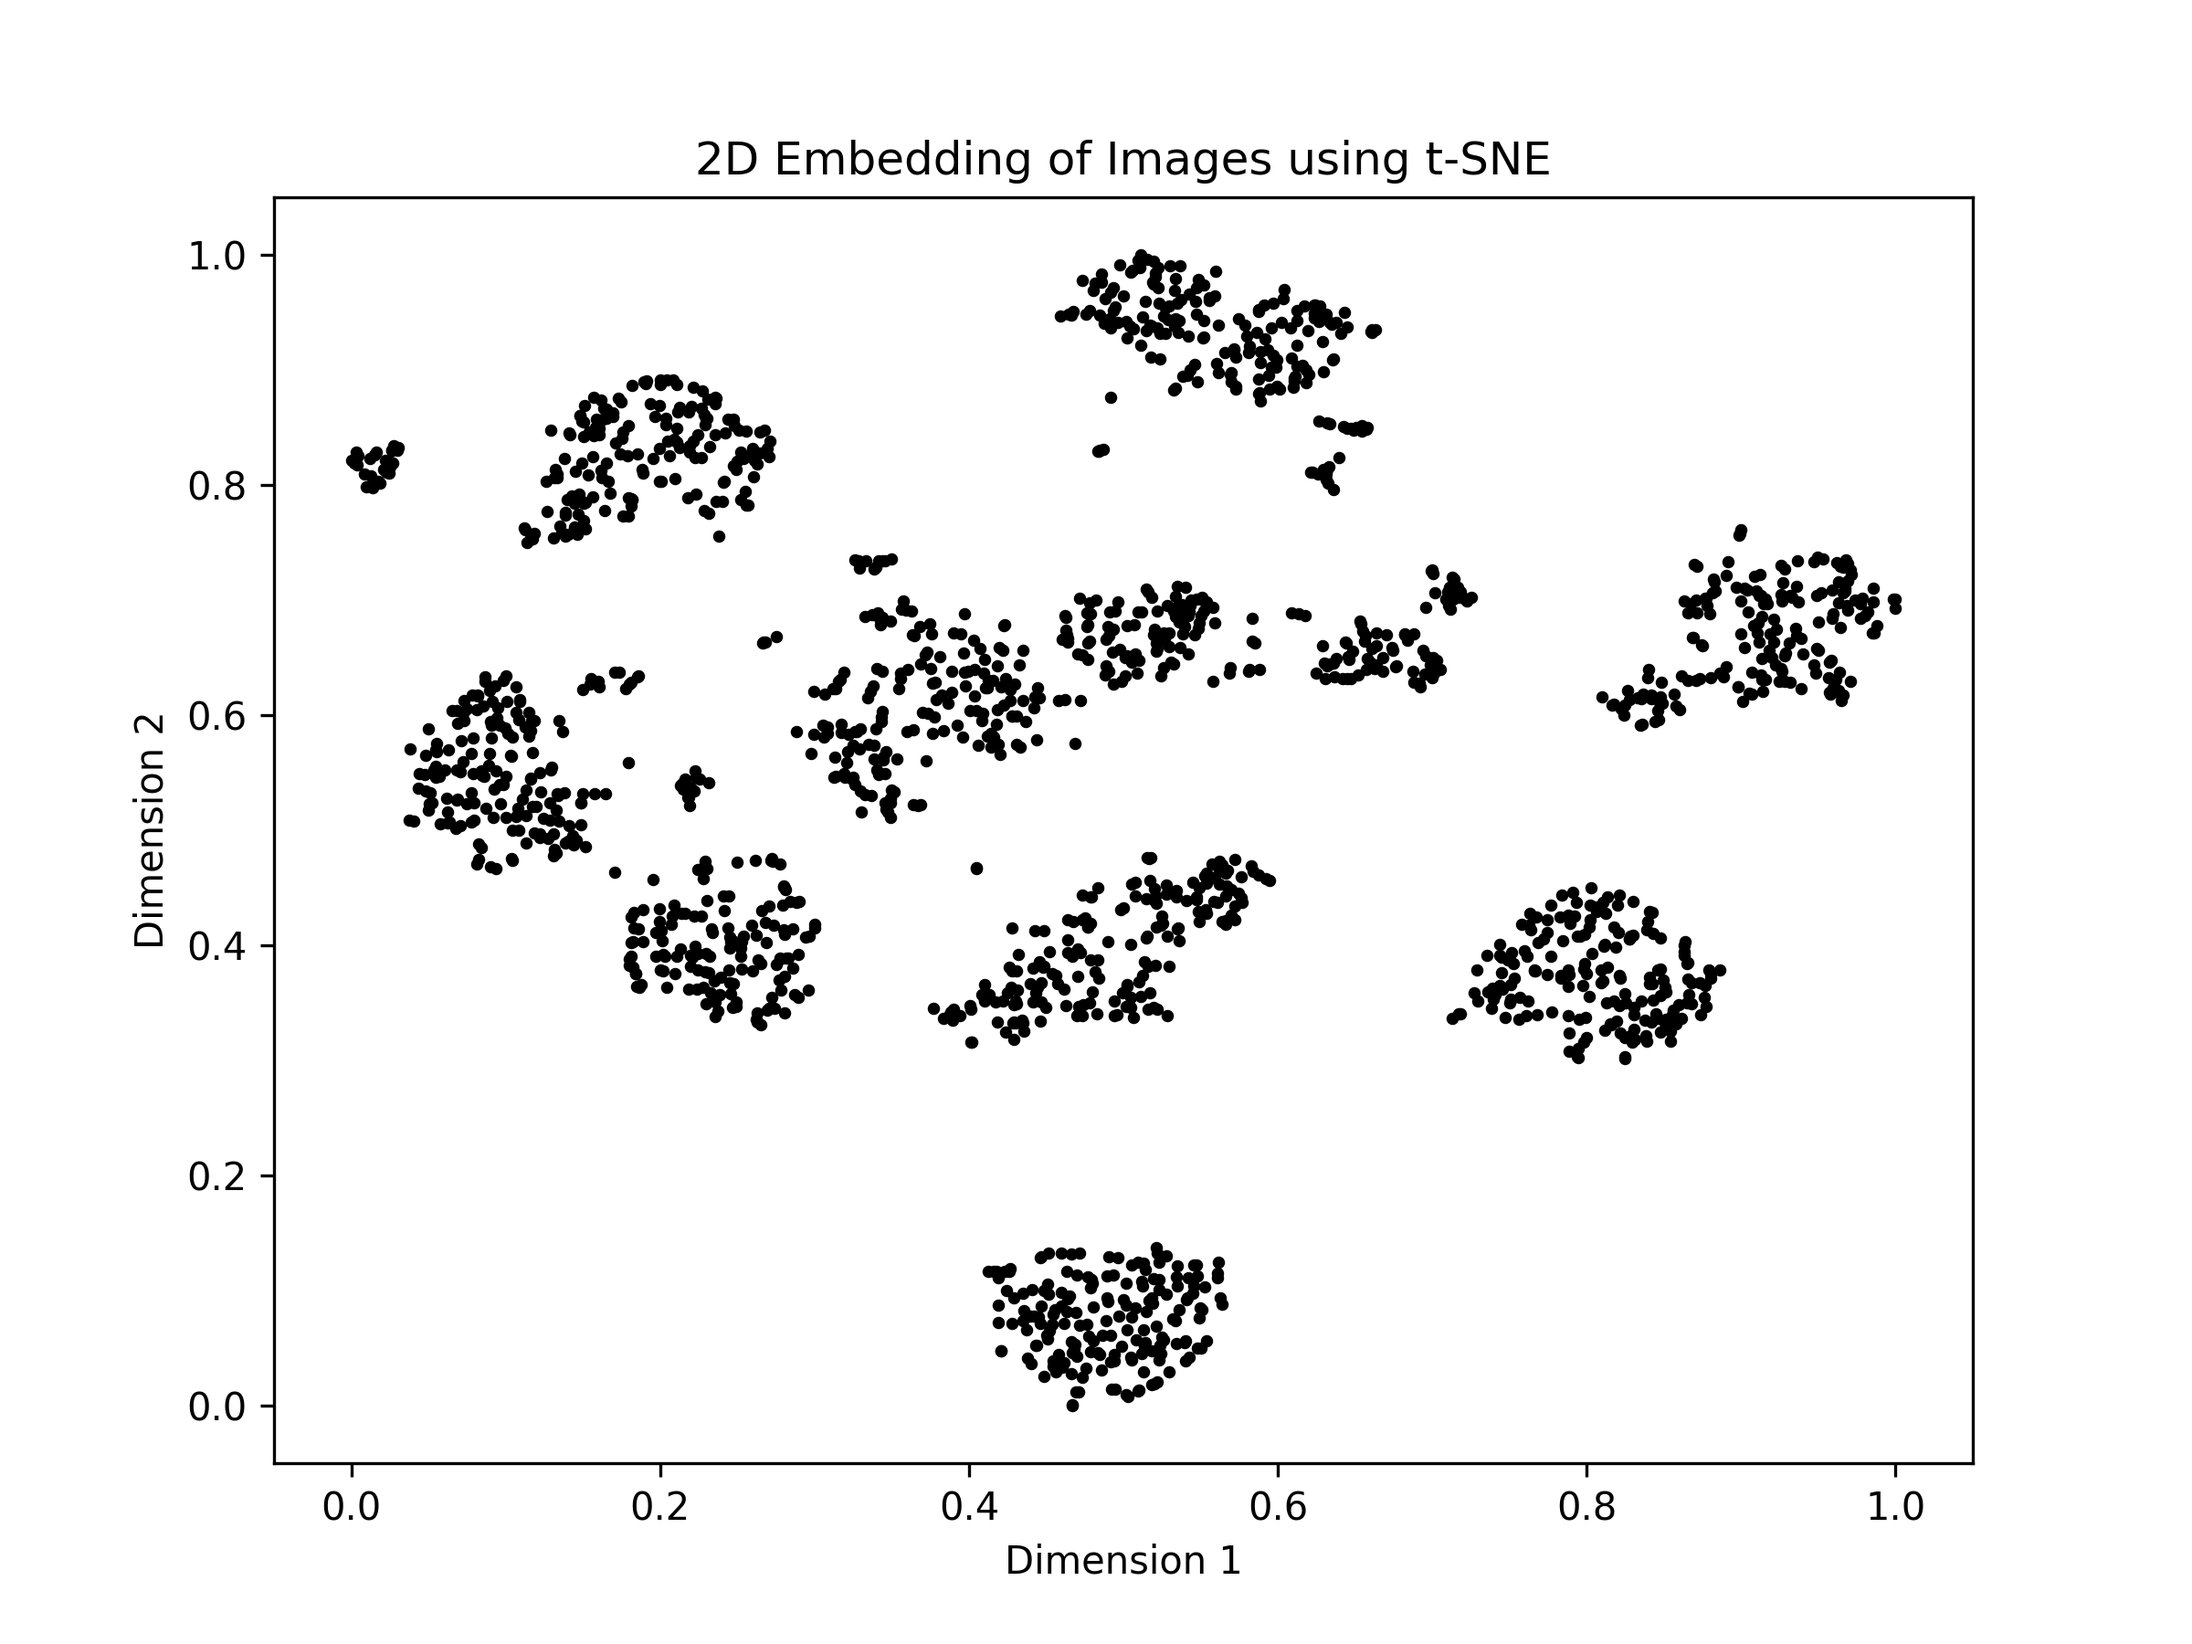
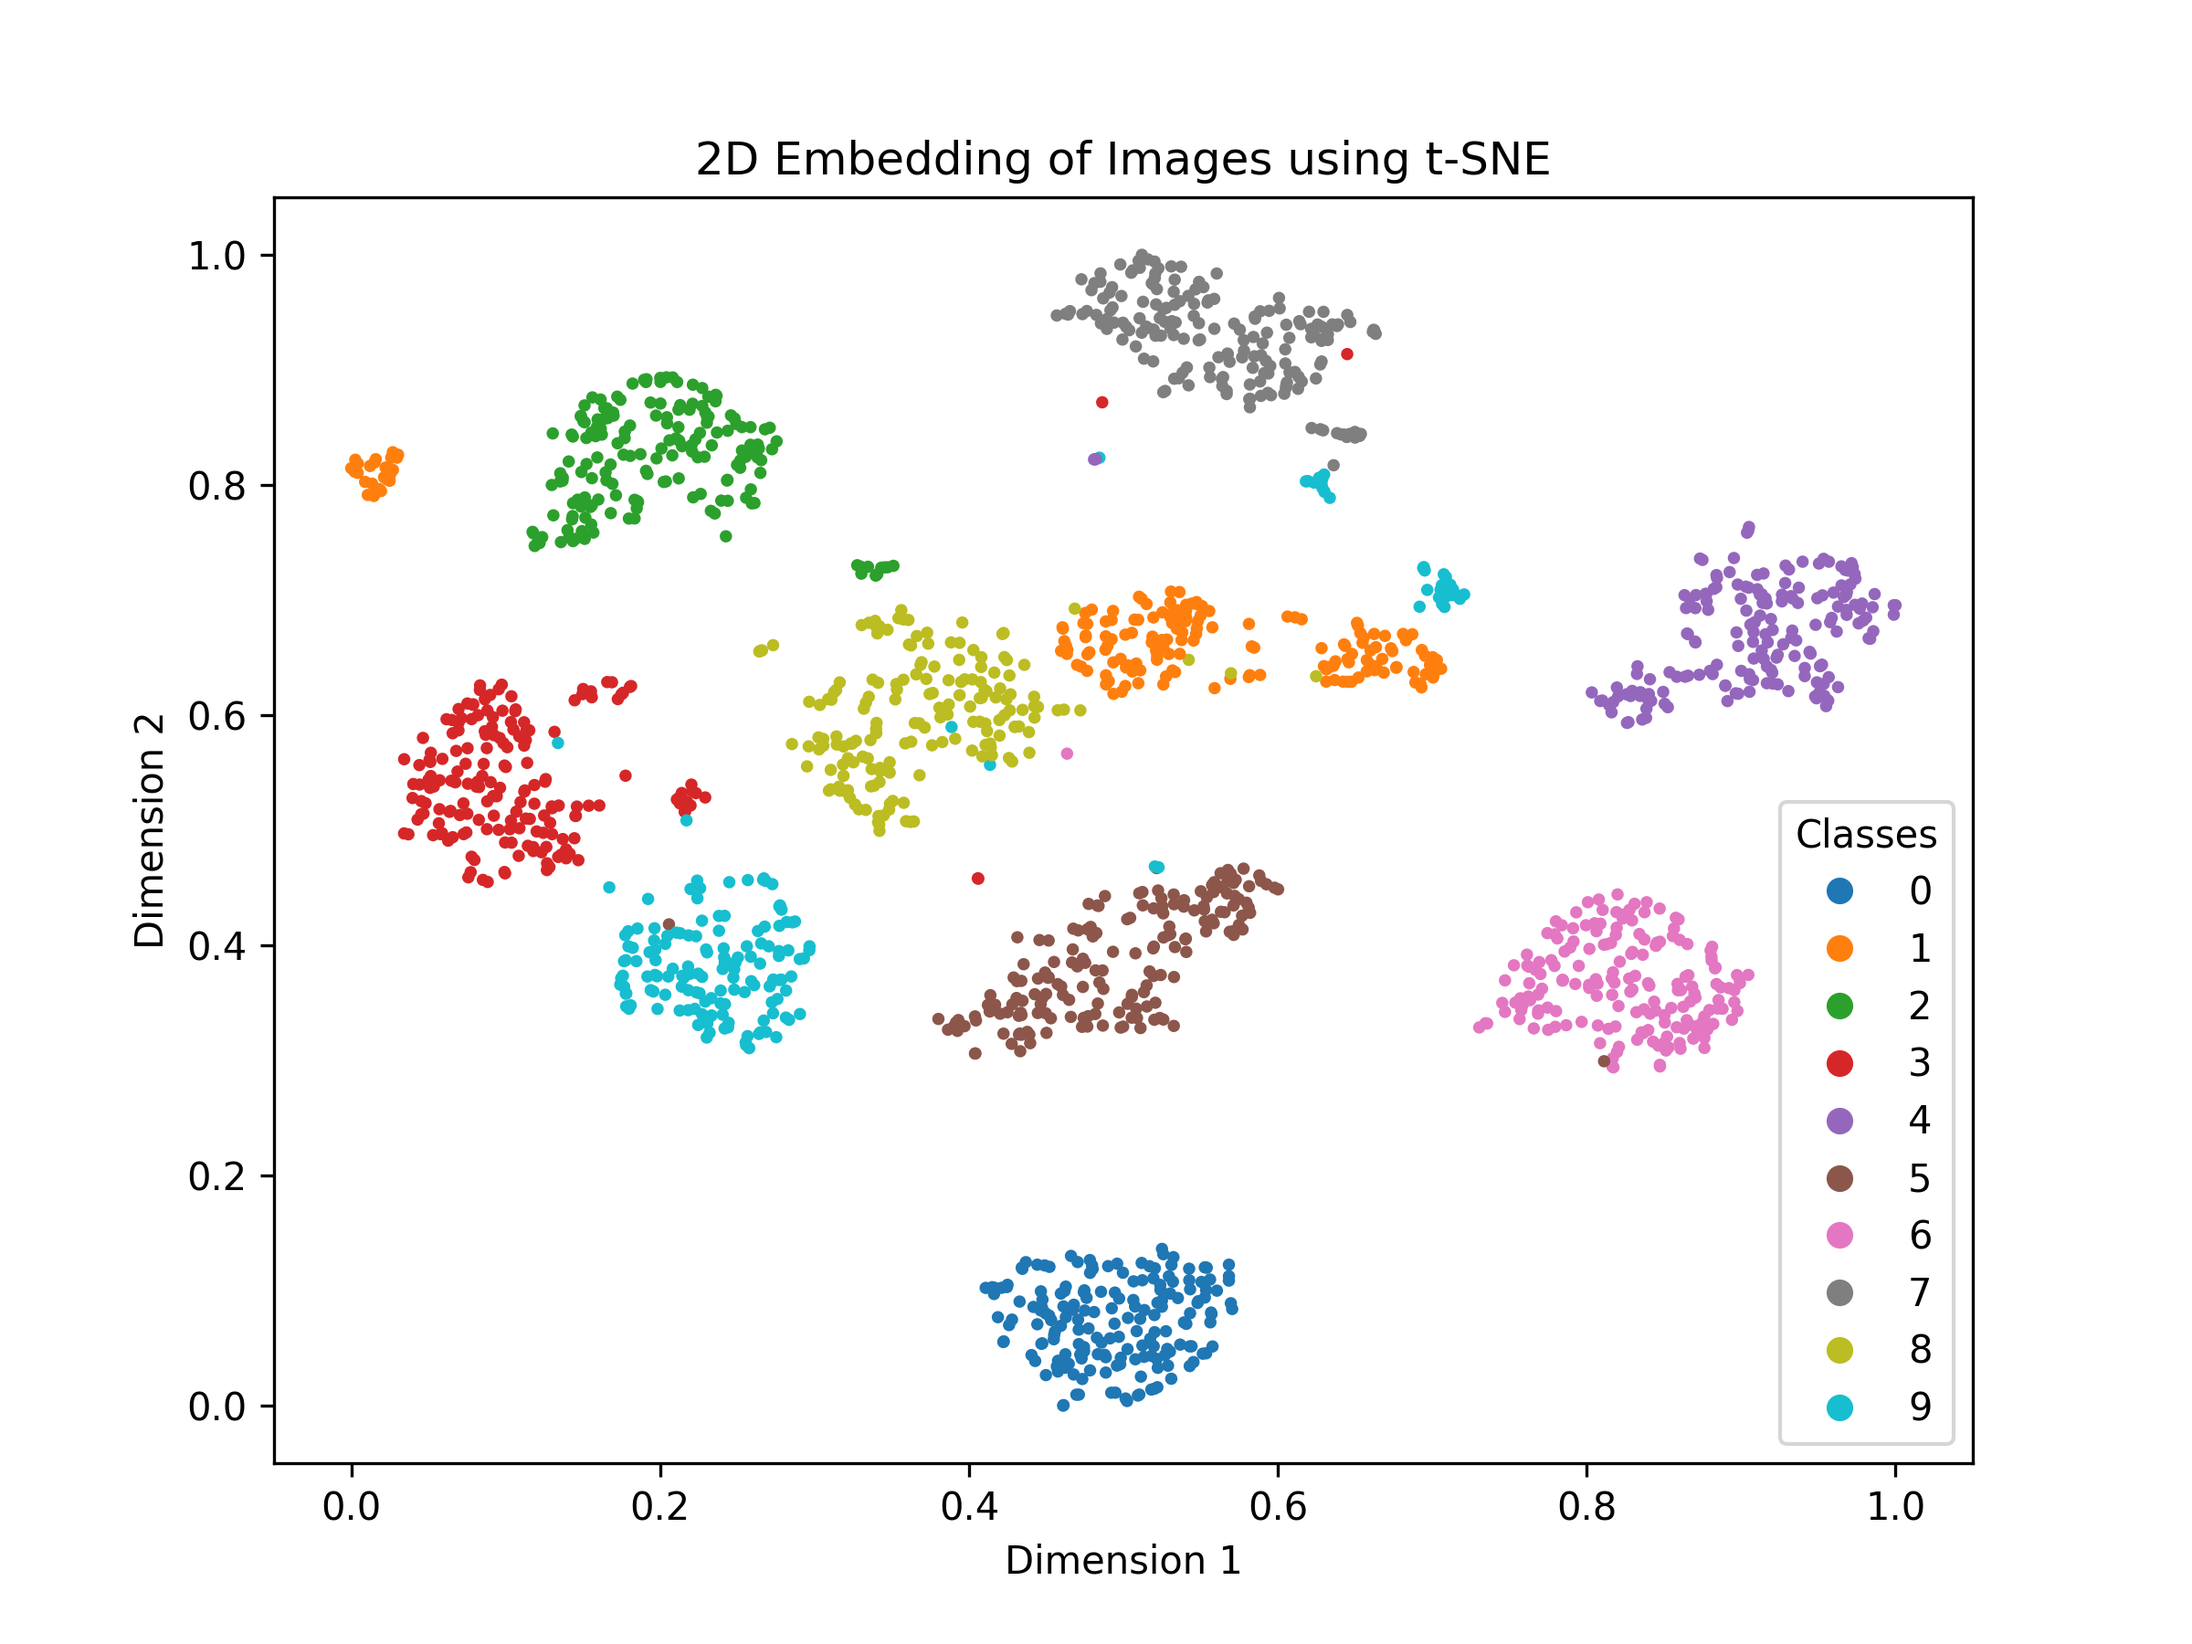
feat: add colors when target y is provided

diff --git a/optical_toolkit/visualize/visualize_embeddings.py b/optical_toolkit/visualize/visualize_embeddings.py
@@ -1,10 +1,11 @@
+import matplotlib
 import matplotlib.pyplot as plt
 import numpy as np
 from sklearn.manifold import TSNE
 from sklearn.preprocessing import MinMaxScaler
 
 
-def visualize_embeddings(X, dims=2, fname="tsne_embedding"):
+def visualize_embeddings(X, y=None, dims=2, fname="tsne_embedding"):
     """
     Given a numpy array of images X, flatten the images
     and plot a 2D or 3D embedding using t-SNE.
@@ -16,6 +17,7 @@ def visualize_embeddings(X, dims=2, fname="tsne_embedding"):
 
     Returns:
     embedding (numpy array): The 2D or 3D embedding.
+
     """
 
     if dims not in [2, 3]:
@@ -33,22 +35,45 @@ def visualize_embeddings(X, dims=2, fname="tsne_embedding"):
     embedding = tsne.fit_transform(flat_images)
     embedding = MinMaxScaler().fit_transform(embedding)
 
+    # Assign colors if needed
+    colors = "black"  # Default color
+    if y is not None:
+        unique_classes = np.unique(y)
+        colormap = matplotlib.colormaps.get_cmap(
+            "tab10")  # Get distinct colors
+        class_to_color = {cls: colormap(
+            i / max(1, len(unique_classes) - 1)) for i, cls in enumerate(unique_classes)}
+        colors = np.array([class_to_color[label] for label in y])
+
     # Plot the embedding
     plt.figure(figsize=(8, 6))
-
     if dims == 2:
-        plt.scatter(embedding[:, 0], embedding[:, 1], s=5, c="black")
+        plt.scatter(embedding[:, 0], embedding[:, 1], s=5, c=colors)
         plt.title("2D Embedding of Images using t-SNE")
         plt.xlabel("Dimension 1")
         plt.ylabel("Dimension 2")
 
+        if y is not None:
+            legend_labels = [plt.Line2D([0], [0], marker='o', color='w',
+                                        markerfacecolor=class_to_color[cls],
+                                        markersize=8) for cls in unique_classes]
+            plt.legend(legend_labels, unique_classes,
+                       title="Classes", loc="best")
+
     elif dims == 3:
         ax = plt.axes(projection="3d")
-        ax.scatter(embedding[:, 0], embedding[:, 1], embedding[:, 2], s=5, c="black")
+        ax.scatter(embedding[:, 0], embedding[:, 1],
+                   embedding[:, 2], s=5, c=colors)
         ax.set_title("3D Embedding of Images using t-SNE")
         ax.set_xlabel("Dimension 1")
         ax.set_ylabel("Dimension 2")
         ax.set_zlabel("Dimension 3")
+
+        if y is not None:
+            for cls in unique_classes:
+                ax.scatter([], [], [], color=class_to_color[cls],
+                           label=str(cls))
+            ax.legend(title="Classes", loc="best")
 
     plt.show()
     plt.savefig(f"examples/{dims}d_{fname}.png", dpi=300)

diff --git a/tests/test_visualizations.py b/tests/test_visualizations.py
@@ -11,7 +11,6 @@ def noise_images():
     height, width = 100, 100
     chans = 3
     images = [np.random.rand(height, width, chans) for _ in range(50)]
-    assert len(images) == 50
     return images
 
 
@@ -38,8 +37,9 @@ def test_tsne_2d_embedding():
 def test_tsne_3d_embedding():
     digits = load_digits()
     X = digits.images
+    y = digits.target
 
     try:
-        visualize_embeddings(X, dims=3)
+        visualize_embeddings(X, y)
     except Exception as e:
         pytest.fail(f"visualize_embeddings raised an exception: {e}")

diff --git a/optical_toolkit/core/__init__.py b/optical_toolkit/core/__init__.py
@@ -1,4 +1,4 @@
-from optical_toolkit.add_border import add_border
-from optical_toolkit.min_max_normalize import min_max_normalize
+from optical_toolkit.core.add_border import add_border
+from optical_toolkit.core.min_max_normalize import min_max_normalize
 
 __all__ = [add_border, min_max_normalize]
